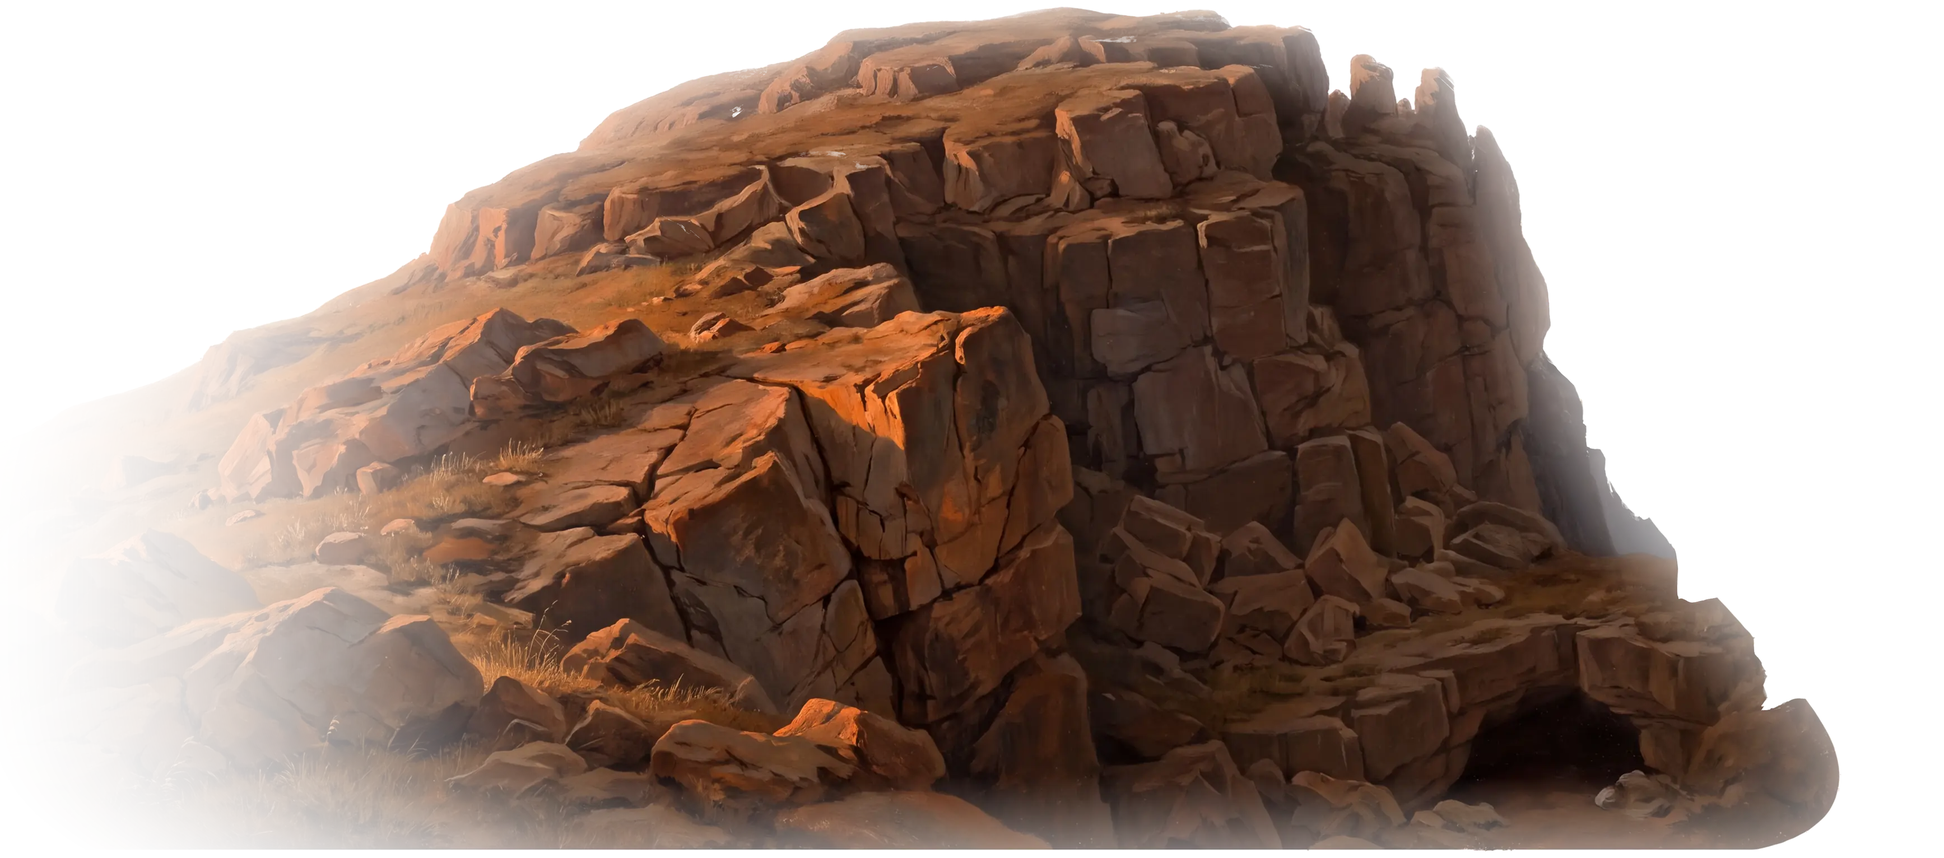
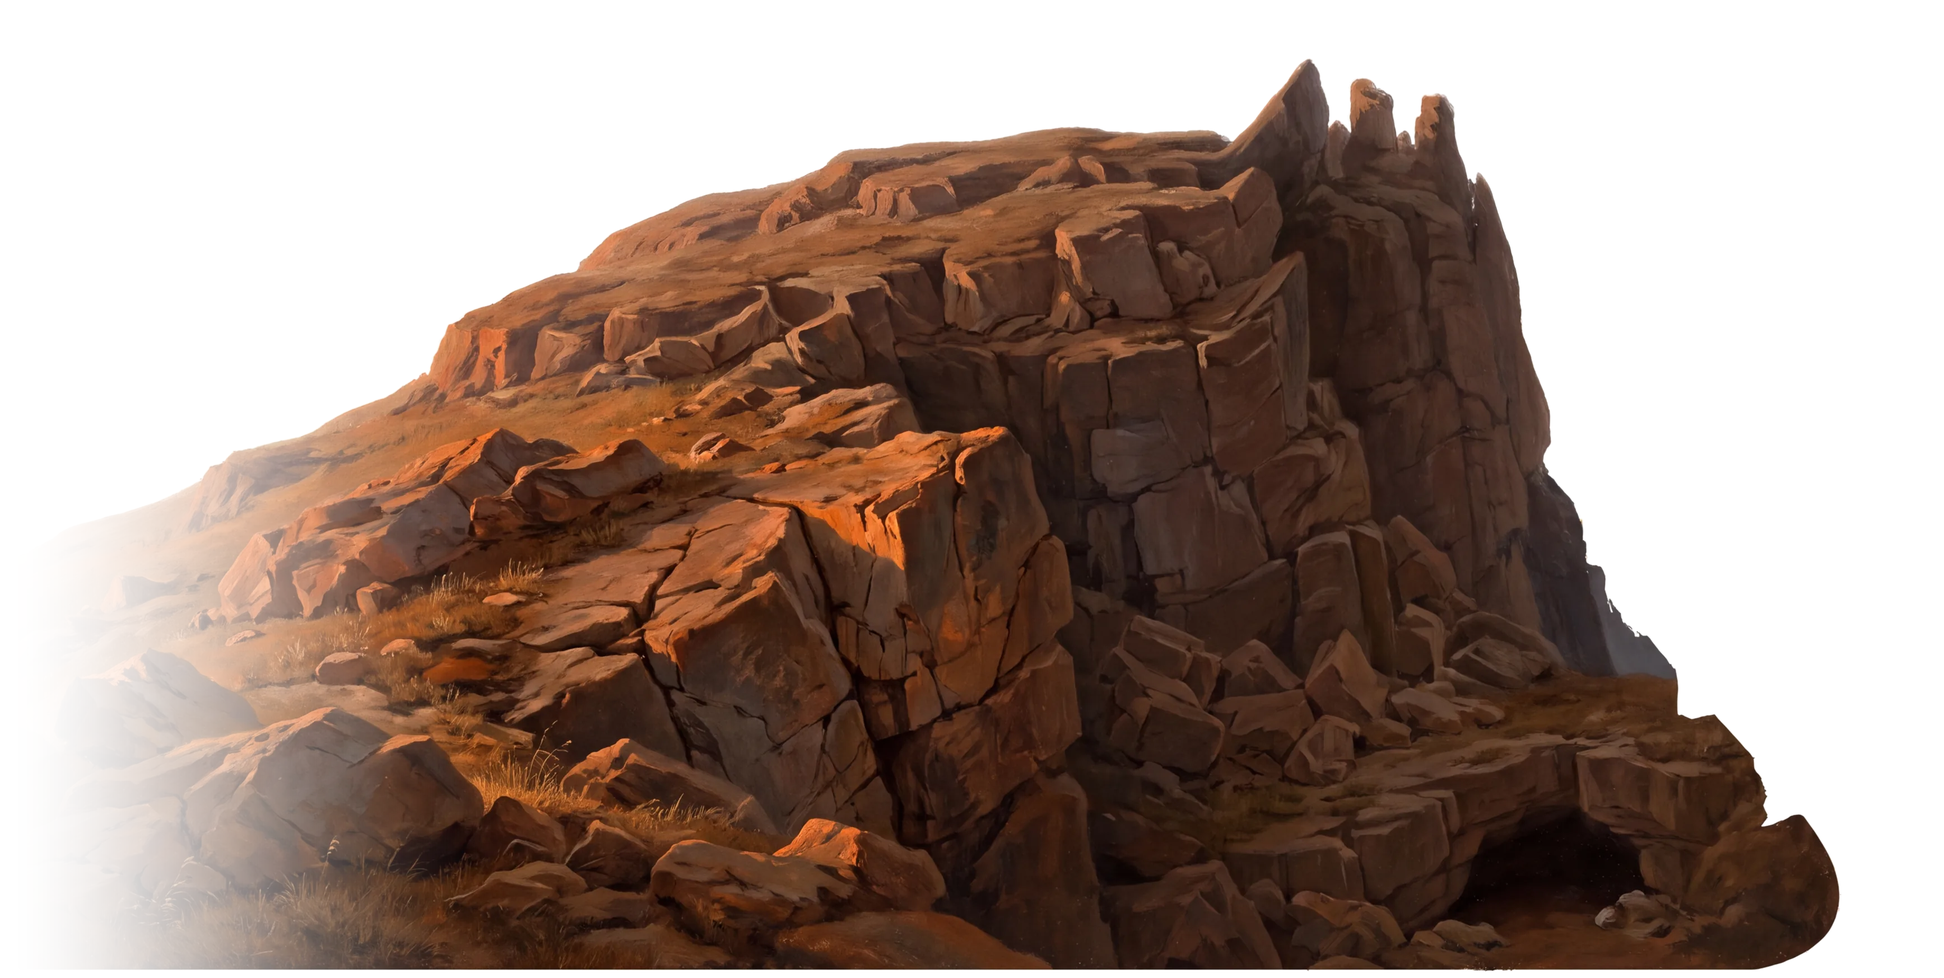
Build 607: Level 5 ?look=f, the cross on the crag's highest pinnacle
Claude-Session: https://claude.ai/code/session_017HrTSCxzgPwtaNLRtpHiFb

diff --git a/cross.js b/cross.js
@@ -56,7 +56,7 @@ const CR = (() => {
   };
   const SH0 = SHAPES[SHAPE] || SHAPES.skull;
   // (owner, build 558: "the hill can be bigger and long flat space on top"): H_TOP 1050 (was 860)
-  const H_TOP = +(new URLSearchParams(location.search).get('htop') || 1500), START = 480, WALL_END = 860, TOMB_X = 4380 + SH0.tomb * (H_TOP + 30), SLOPE0 = 1180, CREST0 = 4080, CROSS_X = 4820, CREST1 = 4400, FALL1 = 5340;
+  const H_TOP = +(new URLSearchParams(location.search).get('htop') || 1500), START = 480, WALL_END = 860, TOMB_X = 4380 + SH0.tomb * (H_TOP + 30), SLOPE0 = 1180, CREST0 = 4080, CROSS_X = /[?&]look=f\b/.test(location.search) ? 5000 : 4820, CREST1 = 4400, FALL1 = 5340;
   // GOLGOTHA, AFTER THE OWNER'S SKETCH (build 545): a smooth swooping ramp up from the left that meets the top of a round
   // rocky knoll shaped like a skull's crown (SK_X its top, SK_L / SK_R how far its dome reaches left and right)
   const SK_X = 4380, SK_L = 1000, SK_R = FALL1 - 4380, SK_H = H_TOP + 30, RAMP1 = SK_X - 260;
@@ -132,7 +132,22 @@ const CR = (() => {
   function outline(xa, xb, step) { const O = [];
     for (let x = xa; x <= Math.min(xb, SK_X); x += step) O.push([x, -gh(x)]);
     if (xb > SK_X) { for (const [x, h] of SKO) O.push([x, -h]); for (let x = SK_END + step; x <= xb; x += step) O.push([x, 0]); }
-    return O; }
+    return PIN_ON && HPAINT ? pinOutline(O) : O; }
+  // ?look=f: the painted crag's own summit of pinnacles (owner: "make the hill shaped more like his crag", then "Yes" to
+  // the cross standing on the highest pinnacle): the painting's pinnacles were lifted into a summit (hill-crag.webp v607,
+  // its alpha now its own skyline) and the land's outline follows that skyline over them (PIN_TAB, painting units at
+  // SK_H 1080 from painting x 4560 every 8), so they are not clipped away; the walk (gh) is unchanged; the cross's foot
+  // is on the highest pinnacle (crossH)
+  const PIN_ON = /[?&]look=f\b/.test(location.search), HP_TOP = PIN_ON ? -1243.17 : -1089.42, HP_H = PIN_ON ? 1247.5 : 1093.75;
+  const PIN_TAB = [1076,1076,1075,1075,1075,1075,1074,1075,1075,1076,1076,1076,1076,1077,1078,1078,1078,1077,1072,1070,1063,1070,1078,1085,1095,1106,1116,1124,1132,1143,1155,1163,1168,1163,1147,1119,1087,1090,1083,1137,1143,1144,1142,1132,1128,1124,1081,1075,1075,1081,1099,1122,1122,1124,1122,1110,1055,1035,1015,1023,1018,1006,984,959,935,905,854,804,780,757,736,634,625,616,607,589,568,524,523,518,479,470,461,446,437,436,433,425,415,406,396,378,331,327,328,330], PIN0 = 4560, PIN1 = PIN0 + 8 * (PIN_TAB.length - 1);
+  function ptop(x) { const s = SK_H / 1080, xp = 4380 + (x - SK_X) / s; if (xp < PIN0 || xp > PIN1) return -1;
+    const f = (xp - PIN0) / 8, i = Math.floor(f); return s * lerp(PIN_TAB[i], PIN_TAB[Math.min(PIN_TAB.length - 1, i + 1)], f - i); }
+  function pinOutline(O) { const s = SK_H / 1080, wa = SK_X + (PIN0 - 4380) * s, wb = SK_X + (PIN1 - 4380) * s, R = [];
+    let put = false;
+    for (const p of O) { if (p[0] < wa || p[0] > wb) { R.push(p); continue; }
+      if (!put) { put = true; for (let x = wa; x <= wb; x += 4) { let base = 0; for (const q of O) if (q[0] <= x) base = -q[1]; const w = smooth(wa + 160, wa + 260, x); R.push([x, -Math.max(base, lerp(base, ptop(x), w))]); } } }
+    return R; }
+  function crossH() { if (PIN_ON && HPAINT) { const t = ptop(CROSS_X); if (t > 0) return t; } return gh(CROSS_X); }
   // ---------- the words (Bunyan's, shortened and made plain) ----------
   const OPEN = [[N, 'Up the highway between its walls Christian ran, but not without great difficulty, because of the load on his back.']];      // {92}
   const ASCEND = [[N, 'He came to a place somewhat ascending, and upon that place stood a cross, and a little below, a sepulchre.']];      // {93}
@@ -191,7 +206,7 @@ const CR = (() => {
     // the hill painted by the image model (round 2 of the owner's hill): rounded weathered rock, toned dark grey, its left
     // end faded into the drawn ramp; cropped to the rock at 1.5 px a world unit (at SK_H 1080): world x 2834 to 5654, height 1089 down to 2 below the ground
     // ?look=f: the hill painted as Friedrich's crag (build 606), laid on the same outline as the old painting
-    if (HP_ON) loadImg(LOOKF ? 'hill-crag.webp?v=606' : 'hill-cross.webp?v=601').then(im => { HPAINT = im; }).catch(() => {});
+    if (HP_ON) loadImg(LOOKF ? 'hill-crag.webp?v=607' : 'hill-cross.webp?v=601').then(im => { HPAINT = im; }).catch(() => {});
     // the burning hill's own painted rock (Level 3), made a grey tile as hill.js makes it, laid over the hill in 'overlay'
     loadImg('hill-rock.webp').then(rock => { const sx = 720, sy = 540, w = 780, h = 600, t = document.createElement('canvas'); t.width = w; t.height = h; const q = t.getContext('2d'); q.drawImage(rock, sx, sy, w, h, 0, 0, w, h);
       const d = q.getImageData(0, 0, w, h), D = d.data; let m = 0; for (let i = 0; i < D.length; i += 4) m += D[i] * .3 + D[i + 1] * .59 + D[i + 2] * .11; m /= D.length / 4;
@@ -250,13 +265,18 @@ const CR = (() => {
   function camTick(snap) {
     const near = { cx: Ch.x + lerp(250, 150, closeK), z: lerp(.8, 1.15, closeK) };
     if (ph === 'cross' || ph === 'after' || ph === 'shine' || ph === 'leaps' || ph === 'end') { near.cx = Math.max(CROSS_X - 130, Ch.x + 170); near.z = .86; }
-    const open = ph === 'look', fitT = (FOOTY - 30) / (gh(CROSS_X) + CROSS_H - tombSill() + 40);
+    // ?look=f: the cross stands on the summit's highest pinnacle, well above him: draw back enough to keep it whole
+    if (PIN_ON && Ch.x > CROSS_X - 1600) { const up = crossH() + CROSS_H + 20 - gh(Ch.x); if (up > 0) near.z = Math.min(near.z, (FOOTY - 34) / up); }
+    const open = ph === 'look', fitT = (FOOTY - 30) / (crossH() + CROSS_H - tombSill() + 40);
     const wide = open ? { cx: (START + CROSS_X) / 2 + 420, z: Math.min(VW / (CROSS_X - START + 900), (FOOTY - 40) / (H_TOP + CROSS_H + 40)) } : { cx: (STOP_X + TOMB_X) / 2 + 40, z: Math.min(VW / (TOMB_X - STOP_X + 760), fitT) };
     let tcx = lerp(near.cx, wide.cx, wideK), tz = Math.exp(lerp(Math.log(near.z), Math.log(wide.z), wideK));
     const wh = open ? 40 : tombSill() - 14, fh = lerp(gh(Ch.x), wh, wideK);
     let twl = FOOTY + fh * tz + (open ? 28 : 0) * wideK;
     // the look from the top after the cut: wide, he and the cross high in the picture, the hill falling away below
     if (topK > .001) { const z2 = .4, wl2 = 250 + gh(Ch.x) * z2; tcx = lerp(tcx, Ch.x - 40, topK); twl = lerp(twl, wl2, topK); tz = Math.exp(lerp(Math.log(tz), Math.log(z2), topK)); }
+    // ?look=f: never cut the cross's top off (it stands on the summit, well above him)
+    if (PIN_ON && topK <= .001) { const c0 = (open ? 28 : 0) * wideK, up = crossH() + CROSS_H + 10 - fh;
+      if (up > 0 && FOOTY + c0 - up * tz < 34) { tz = Math.max(.05, (FOOTY + c0 - 34) / up); twl = FOOTY + fh * tz + c0; } }
     const e = snap ? 1 : .045; cam.cx += (tcx - cam.cx) * e; cam.z += (tz - cam.z) * e; cam.wl += (twl - cam.wl) * e;
   }
 
@@ -478,7 +498,7 @@ const CR = (() => {
     c.fillStyle = g; c.fillRect(0, 0, VW, VH);
     // the far light, low behind the crown before dawn; the sun breaking behind the crown, rising behind where the
     // beams cross, and on up the sky (kept inside the picture)
-    const cxs = sx(CROSS_X + SUN_DX), top = sy(gh(CROSS_X) + CROSS_BY + 4), y0 = sy(gh(CROSS_X)) + 40, sY = LOOKF
+    const cxs = sx(CROSS_X + SUN_DX), top = sy(crossH() + CROSS_BY + 4), y0 = sy(crossH()) + 40, sY = LOOKF
       // ?look=f: as in the painting, the sun stays low, just over the farthest ranges, rising only a little
       ? HY - 96 - 60 * Math.min(1.3, sunH)
       : Math.max(VH * .1, y0 + (top - y0) * sunH);
@@ -571,7 +591,7 @@ const CR = (() => {
   // Kuindzhi: once the sun is up, the picture darkens toward its edges and corners, away from the light
   function kuindzhi(c) {
     const k = LOOKR ? Math.max(gold, .5 * dawn) * (LOOKF ? .45 : 1) : 0; if (k < .02) return;
-    const cxs = sx(CROSS_X + SUN_DX), cy = LOOKF ? HY - 120 : sy(gh(CROSS_X) + CROSS_BY), R = Math.hypot(VW, VH);
+    const cxs = sx(CROSS_X + SUN_DX), cy = LOOKF ? HY - 120 : sy(crossH() + CROSS_BY), R = Math.hypot(VW, VH);
     const g = c.createRadialGradient(cxs, cy, R * .12, cxs, cy, R * .9);
     g.addColorStop(0, 'rgba(10,8,14,0)'); g.addColorStop(.45, css([14, 10, 18], .12 * k)); g.addColorStop(1, css([10, 8, 14], .42 * k));
     c.fillStyle = g; c.fillRect(0, 0, VW, VH);
@@ -860,20 +880,20 @@ const CR = (() => {
     const lite = mix(hc, [150, 146, 160], .5), dark = mix(hc, [6, 5, 8], .6);
     let g = c.createLinearGradient(0, -H_TOP, 0, 40);
     g.addColorStop(0, css(lite, .1)); g.addColorStop(.3, css(lite, .03)); g.addColorStop(.6, css(dark, .05)); g.addColorStop(1, css(dark, .5));
-    c.fillStyle = g; c.fillRect(x0, -H_TOP - 60, x1 - x0, H_TOP + 2100);
+    c.fillStyle = g; c.fillRect(x0, -H_TOP - 700, x1 - x0, H_TOP + 2740);
     // the beds of rock only when the painting is not there (their lines showed through it)
     const R = rockTex(); if (!HPAINT) c.drawImage(R.c, R.x, R.y, R.w, R.h);
     if (HPAINT) {
-      const s = SK_H / 1080; c.save(); c.translate(SK_X, 0); c.scale(s, s); c.drawImage(HPAINT, 3149.64 - 4380, -1089.42, 2478.34, 1093.75); c.restore();
+      const s = SK_H / 1080; c.save(); c.translate(SK_X, 0); c.scale(s, s); c.drawImage(HPAINT, 3149.64 - 4380, HP_TOP, 2478.34, HP_H); c.restore();
       // the painting takes the hill's own colour through the dawn (its lightness kept); the crag of ?look=f keeps its own
       // painted colours and is only darkened before the sun is up
-      if (LOOKF) { c.globalCompositeOperation = 'multiply'; c.fillStyle = css(mix(mix([92, 86, 96], [176, 160, 156], dawn), [255, 248, 240], gold)); c.fillRect(x0, -H_TOP - 200, x1 - x0, H_TOP + 2300); c.globalCompositeOperation = 'source-over'; } else {
-      c.globalCompositeOperation = 'color'; c.fillStyle = css(hc); c.fillRect(x0, -H_TOP - 200, x1 - x0, H_TOP + 2300); c.globalCompositeOperation = 'source-over'; }
+      if (LOOKF) { c.globalCompositeOperation = 'multiply'; c.fillStyle = css(mix(mix([92, 86, 96], [176, 160, 156], dawn), [255, 248, 240], gold)); c.fillRect(x0, -H_TOP - 700, x1 - x0, H_TOP + 2800); c.globalCompositeOperation = 'source-over'; } else {
+      c.globalCompositeOperation = 'color'; c.fillStyle = css(hc); c.fillRect(x0, -H_TOP - 700, x1 - x0, H_TOP + 2800); c.globalCompositeOperation = 'source-over'; }
       // the foot sinks into the dark ground (owner: "blend edges and make everything super cohesive")
       if (false) {
         // the rock modelled: the painting's own light and shade, its tones spread to the full range once (hpRelief),
         // laid with 'soft-light' so the colour stays burnt orange while tops and faces read; strongest once the sun is up
-        const rv = hpRelief(); if (rv) { c.save(); c.globalCompositeOperation = 'soft-light'; c.globalAlpha = .45 + .45 * gold; c.translate(SK_X, 0); c.scale(s, s); c.drawImage(rv, 3149.64 - 4380, -1089.42, 2478.34, 1093.75); c.restore(); }
+        const rv = hpRelief(); if (rv) { c.save(); c.globalCompositeOperation = 'soft-light'; c.globalAlpha = .45 + .45 * gold; c.translate(SK_X, 0); c.scale(s, s); c.drawImage(rv, 3149.64 - 4380, HP_TOP, 2478.34, HP_H); c.restore(); }
         // and the side light: brighter on the sun's side (left), into shade toward the right
         const sl = c.createLinearGradient(CROSS_X - 1400, 0, CROSS_X + 900, 0);
         sl.addColorStop(0, css([255, 190, 120], .35 * gold)); sl.addColorStop(.55, 'rgba(255,190,120,0)'); sl.addColorStop(1, css([20, 12, 10], .4 * gold));
@@ -1031,7 +1051,7 @@ const CR = (() => {
       c.restore(); }
   }
   function cross(c) {
-    const x = CROSS_X, h = gh(x) + (LOOKF && !HPAINT ? CRAG_LIFT : 0), col = mix(mix([20, 20, 27], [22, 20, 24], dawn), [30, 22, 20], gold), H = CROSS_H, T = 14, bw = 186, by = CROSS_BY;
+    const x = CROSS_X, h = crossH() + (LOOKF && !HPAINT ? CRAG_LIFT : 0), col = mix(mix([20, 20, 27], [22, 20, 24], dawn), [30, 22, 20], gold), H = CROSS_H, T = 14, bw = 186, by = CROSS_BY;
     c.save(); c.translate(x, -h + 4); c.fillStyle = css(col);
     // edges very slightly uneven, as a hand-hewn beam's are (owner: "ever slight variation to the straight edges to make it
     // look slightly (very slightly) more wooden"): a slow wander along each edge, a fine roughness, a hair of taper, ends
@@ -1291,7 +1311,8 @@ const CR = (() => {
       if (t >= 90 && robe >= .5 && CWALK.ready) { if (Ch.wo == null) { Ch.wo = 0; Ch.wa = 0; }
         const f0 = Math.floor(Ch.wa) % CWALK.length; Ch.wa += 16 / 60; Ch.x += CWALK_META.vpx * CHR_K * 16 / 60; Ch.wo++;
         const f1 = Math.floor(Ch.wa) % CWALK.length; if (f1 !== f0 && (f1 === 0 || f1 === 14) && audio()) groundStep(1, .9);
-        if (Ch.wo > 470 && G.state !== 'end') finish(); }
+        // ?look=f: the cross stands on the summit's pinnacle, so his walk on ends at the rock's foot
+        if ((Ch.wo > 470 || (PIN_ON && Ch.x >= CROSS_X - 175)) && G.state !== 'end') finish(); }
       else if (t > 200 && G.state !== 'end') finish();
     }
     // a breath of quiet between one speaker and the next in a talk, so each voice is heard as its own person (owner, build 458)

diff --git a/index.html b/index.html
@@ -184,7 +184,7 @@ body.portrait:not(.playing) #rot{display:none}
   </div>
   <button id="snd" aria-label="Sound on or off">♪</button>
   <button id="autoWalk" aria-label="He walks on by himself"><svg viewBox="0 0 24 24"><path d="M5 6l6 6-6 6M12 6l6 6-6 6"/></svg></button>
-  <div id="build">build 606 · Nov 23 2026</div>
+  <div id="build">build 607 · Nov 23 2026</div>
 </div></div>
 <div id="rot">Turn your phone sideways for a bigger picture</div>
 <script>
@@ -2900,7 +2900,7 @@ document.getElementById('on2').onclick = () => SL.on ? go3() : HL.on ? goRoom('d
 <script src="rooms.js?v=571"></script>
 <script src="heaven.js?v=547"></script>
 <script src="keepsakes.js?v=505"></script>
-<script src="cross.js?v=606"></script>
+<script src="cross.js?v=607"></script>
 <script src="editor.js?v=485"></script>
 </body>
 </html>

diff --git a/story-lab.html b/story-lab.html
@@ -3,4 +3,4 @@
 <title>Pilgrim's Progress</title>
 <!-- The game moved to the main page in build 119. This page only sends old links (and Home Screen icons) on to it. -->
 <script>location.replace('./' + location.search + location.hash);</script>
-<p><a href="./">Pilgrim's Progress</a> <span id="build">build 606 · Nov 23 2026</span></p>
+<p><a href="./">Pilgrim's Progress</a> <span id="build">build 607 · Nov 23 2026</span></p>

diff --git a/CLAUDE.md b/CLAUDE.md
@@ -40,7 +40,7 @@ A gentle side-scrolling story walk for kids ages 7 to 10, following Bunyan's *Th
 ## Working with the owner
 
 - **Repo `Twhidbey/pilgrims-progress`, branch `main`. Pushing `main` publishes the game** (GitHub Pages, https://twhidbey.github.io/pilgrims-progress/, 1 to 2 minutes). Commit and push after every change, then tell the owner it is live; a phone may show an old copy, so suggest `?v=N`. **Always give two links when a build is live (owner, build 187: "can you output [the editor link] by default and make note in notes"):** the game, `https://twhidbey.github.io/pilgrims-progress/?v=N`, and the editor link, `https://twhidbey.github.io/pilgrims-progress/?edit&v=N` (skip arrows, see Testing); add `&level=2` or `&level=3` when the change is in that level.
-- **Build stamp** (`id="build"`, bottom right): `build N · date` in `index.html` and `story-lab.html`. Bump N on **every** push that changes the game, so one number means one push. Keep the form `id="build">... build N` (the page's self-update reads it). **Currently build 606.** The two script tags at the end of `index.html` carry `?v=N` (`slough.js?v=`, `hill.js?v=`): set them to the build that last changed each file, so phones fetch the new copy. Several chats push at once: `git fetch` and rebase on `origin/main` just before pushing, and take the next number after whatever is there.
+- **Build stamp** (`id="build"`, bottom right): `build N · date` in `index.html` and `story-lab.html`. Bump N on **every** push that changes the game, so one number means one push. Keep the form `id="build">... build N` (the page's self-update reads it). **Currently build 607.** The two script tags at the end of `index.html` carry `?v=N` (`slough.js?v=`, `hill.js?v=`): set them to the build that last changed each file, so phones fetch the new copy. Several chats push at once: `git fetch` and rebase on `origin/main` just before pushing, and take the next number after whatever is there.
 - **SPEND AS LITTLE AS POSSIBLE (owner, build 106: "can you minimize spending - it's been pretty expensive for me last few days").** Video about 56 cents a try; a picture about 15 cents (`gemini-3-pro-image`); voice about a cent a line. **Before any paid call: say the cost and wait for a yes; keep the running total in `HANDOFF.md`.** Ways to save, in order: (1) do it in code first (breathing, sway, cloth and hair movement, small moves by warping a still, mirroring, tinting, reusing a figure); (2) build first and last frames from frames we already have; (3) draft pictures on `gemini-2.5-flash-image` (about a third of the price), the pro model only for the final; (4) show the owner a still before any video; (5) get two clips from one video (play backwards or back and forth); (6) write video prompts that pass the safety filter first time (no "sunk", "drowning", "thrashing", "desperate", "frightened"; say "thick sticky mud", "heaves", "cross and grumbling"); (7) a shorter video if the API offers one cheaper (not yet checked).
 - **Keep `CLAUDE.md` and `HANDOFF.md` updated after every change.** The repo is public: no names, emails or other personal details in notes, code or commits.
 - **Players:** kids 7 to 10, mostly on an iPhone. Gentle: no lives, no game over, read-aloud words, short simple sentences.
@@ -930,5 +930,7 @@ Counted by episode from the book's section numbers (later long conversations shr
 **Build 605: `?look=f` NEARER THE PAINTING (owner: "yes fix those and give is screenshots").** Only with `?look=f`. (1) The sun in view: low just over the farthest ranges, a little left of the cross (`SUN_DX` -430; `sY` = `HY - 96 - 60 min(1.3, sunH)`), rising only a little, as in the painting; the Kuindzhi darkening centred on it. (2) The painting's lemon-cream horizon: a wide warm glow round the low sun and a pale band along the horizon (in `sky()`). (3) The rock modelled: the painted hill's own light and shade spread to the full range of grey once (`hpRelief()`, `HPR`) and laid with 'soft-light' over the burnt orange, and a side light brighter on the sun's side, falling into shade toward the right. Seen: the modelling reads as rounded boulders, a little blotchy close up. Before and after stills shown. Nothing spent.
 
 **Build 606: THE HILL PAINTED AS FRIEDRICH'S CRAG, FOR `?look=f` (owner: "make the hill shaped more like his crag", then "You might need to generate picture", "try free first", "yes spend the 25 cents").** Tried first and not kept: a crag drawn in code over the hill (separate towers read as standing stones, then one mass read as a stepped wall, then a smooth mound with bumps); two free FLUX Kontext edits (given the old painting it kept its boulders and made them shiny; given a flat silhouette it ignored the outline and painted a tall desert butte with a mushroom rock, like a 3D render). Then one `gemini-3-pro-image-preview` picture (21:9, 4K, about 25 cents, right first time), given the hill's outline as a flat brown silhouette on white and *Morning in the Riesengebirge* as the style: broken blocky rock lit warm orange from the left, cool shadowed faces on the right, dry grass on the ramp, pinnacles on the right, the cave kept. Cropped to the old painting's box, the old picture's alpha (its long left fade and feathered edge) laid over it, at .7 size: `assets/hill-crag.webp` (3470 x 1532, 312 KB), loaded only with `?look=f` in place of `hill-cross.webp`, drawn in the same place, keeping its own painted colours (only darkened before the sun is up, a 'multiply' by the dawn); clipped to the land's outline as before, so his walk is unchanged (the picture's pinnacles above the crown are cut off by that clip). The code crag (`crag()`, `CRAG_LIFT`) stands in only until the picture has loaded. Before and after stills shown; playtest 5 reaches the end card. Spent: about 25 cents.
+
+**Build 607: THE CROSS ON THE CRAG'S HIGHEST PINNACLE, FOR `?look=f` (owner, offered a jagged skyline with the cross on the highest pinnacle: "Yes").** Build 606's painting had lost its own skyline: it was cut with the old hill's alpha, so its top was the old smooth mound. Now `assets/hill-crag.webp` (`?v=607`, 3470 x 1683) is cut again from the same 4K painting with its OWN alpha (paper flooded from the edges), its long left fade kept, and the cluster of pinnacles at the cliff's edge lifted into a summit (the columns above row 1800 stretched up by up to 150 painting units, a cosine plateau over the pinnacles, zero where he stands; script `mkpin.py` in the session scratchpad); drawn at `HP_TOP` -1243.17, `HP_H` 1247.5 (painting units at `SK_H` 1080). In `cross.js`, only with `?look=f` (`PIN_ON`): the land's outline follows that skyline over the summit (`PIN_TAB`, painting x 4560 to 5320 every 8; `ptop()`, `pinOutline()`, blended in over 100 units so no step shows where it begins), so the pinnacles are no longer clipped away; `CROSS_X` is 5000 (the highest pinnacle; 4820 otherwise), its foot on the pinnacle (`crossH()`, used by the cross, the sun's line, the Kuindzhi centre and the wide shot's fit); the walk (`gh`) is unchanged, so he stands on the crown 300 short of the summit and looks up at the cross; the camera draws back wherever needed so the cross is never cut off (in `camTick`); his walk on at the end stops at the rock's foot (`CROSS_X - 175`) and the end card comes. The colour layers in `land()` reach higher so the summit's tip is toned like the rest. Without `?look=f` nothing changes (playtest 5 reaches the end card). Before and after stills shown. Nothing spent.
 
 A first finish line: **Level 5, the Cross** (the burden carried since the first screen falls off), so Levels 1 to 5 stand as a whole game. Could be about 14 by also joining the Delectable Mountains with Ignorance, and the Enchanted Ground into the last level. Rough size: about $3 a level for pictures, videos and voices, more where there are many new people.

diff --git a/HANDOFF.md b/HANDOFF.md
@@ -244,6 +244,8 @@ The game is `index.html` (Level 1 in the page, Level 2 in `slough.js`; no build 
 
 ## START HERE (rewritten at build 140, Nov 16 2026)
 
+**Build 607 (art direction chat): `?look=f` the crag's own skyline, pinnacles lifted into a summit, the cross on the highest one (CROSS_X 5000 there); see CLAUDE.md. Nothing spent.**
+
 **Build 606 (art direction chat): `?look=f` hill painted as Friedrich's crag (one gemini-3-pro-image picture, about 25 cents; two free FLUX tries failed). Spent: about 25 cents.**
 
 **Build 605 (art direction chat): `?look=f` nearer the painting (the low sun in view, a lemon horizon, the rock modelled). Nothing spent.**
